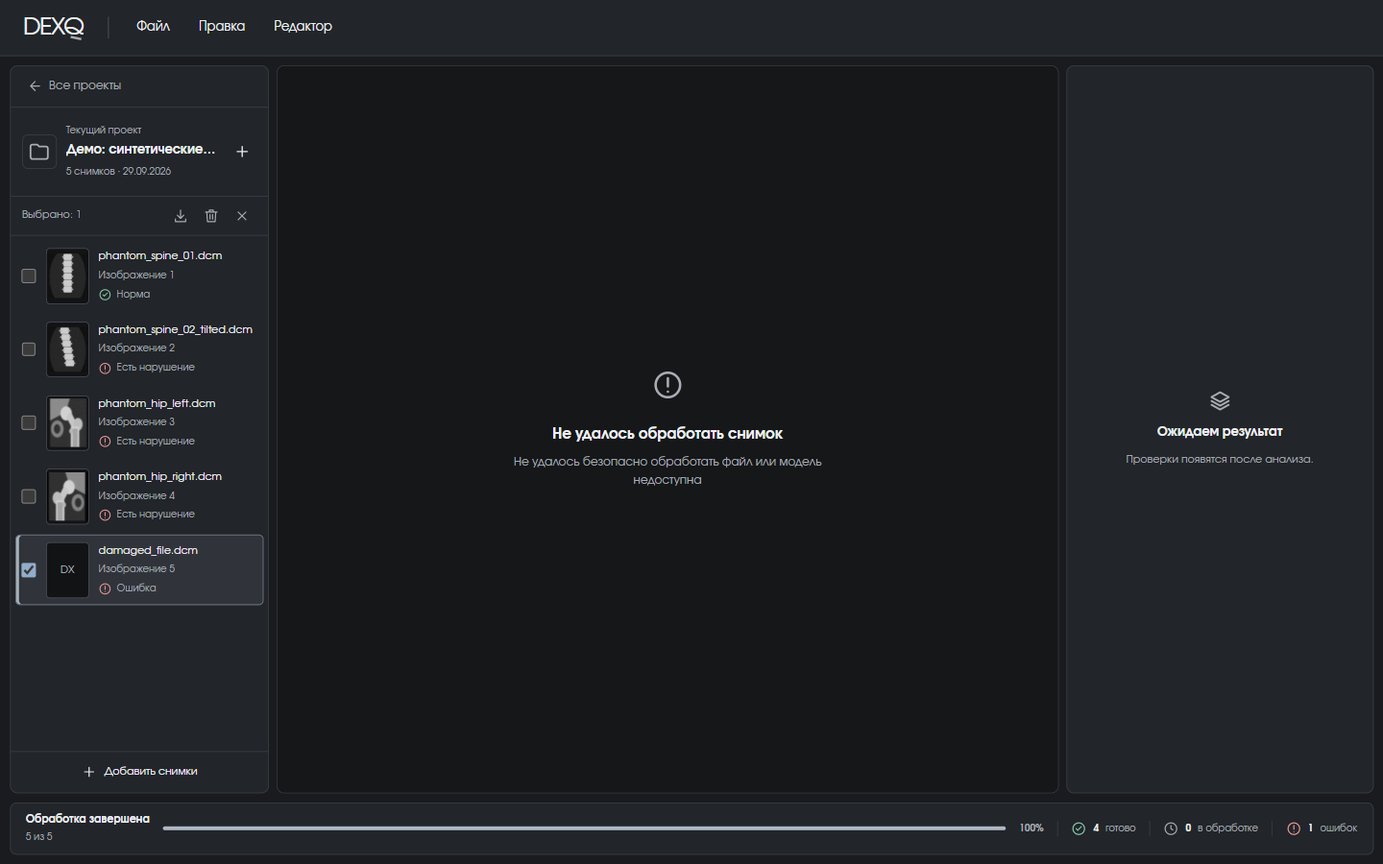
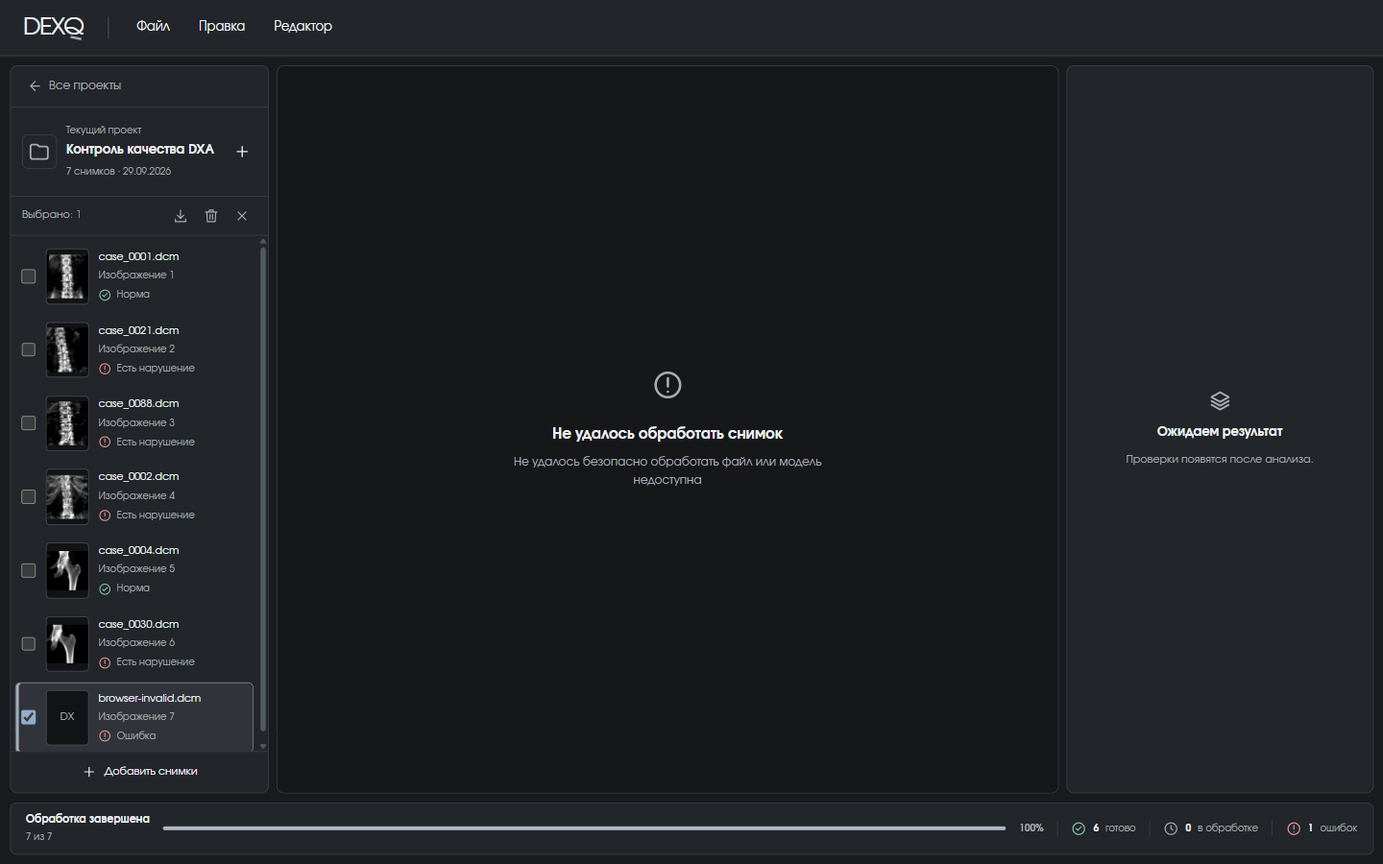
docs: retake screenshots on real studies and add training guide
Screenshots now show anonymized organizer studies instead of phantoms;
captions describe the actual cases. New page documents training,
PyTorch to ONNX conversion, validation and the weight manifest pin.

diff --git a/docs/model/training.md b/docs/model/training.md
@@ -1,0 +1,206 @@
+# Обучение и конвертация весов
+
+<p class="lead">Для запуска DEXQ эта страница не нужна: в архиве лежат готовые веса. Она для тех, кто хочет переобучить классификаторы, заново сконвертировать сети из PyTorch в ONNX или проверить, как получены поставленные файлы.</p>
+
+## Что именно обучается
+
+Нейросети в DEXQ публичные и **заморожены**: ResNet18 (веса ImageNet из `torchvision`) и SpineNet (центры позвонков). Дообучения нейросетей нет. Обучаются только логистические регрессии поверх их признаков (`StandardScaler` + `LogisticRegression`, `class_weight="balanced"`), поэтому всё обучение идёт на CPU за минуты.
+
+```mermaid
+flowchart TB
+    subgraph T ["Обучение и конвертация · PyTorch, scikit-learn"]
+        direction LR
+        PTH["PyTorch .pth<br/>ResNet18, SpineNet"] -->|"torch.onnx.export<br/>opset 17"| ONNX[".onnx<br/>извлечение признаков"]
+        ONNX --> LR["Логистические регрессии<br/>на признаках снимков"]
+        LR --> NPZ[".npz<br/>коэффициенты и пороги"]
+    end
+    T --> RT["Сервис: checkpoints/runtime/<br/>только ONNX Runtime + NumPy"]
+```
+
+| Модель | Что обучается | Данные | Seed |
+| --- | --- | --- | --- |
+| Роутер области | ЛР по 512 признакам ResNet18, `C=0.1` | 255 снимков, позвоночник = 1 | 20260927 |
+| Сторона бедра | ЛР по 2048 признакам ResNet18, `C=0.1` | 155 снимков бедра, правое = 1 | 20260927 |
+| `hip_positioning_rotation` | ЛР по 6400 признакам, `C=0.01`, порог по кросс-фиту | размеченные снимки бедра | 20260928 |
+| `hip_roi` | ЛР по 512 + 7 признакам геометрии, `C=0.01`, порог по кросс-фиту | размеченные снимки бедра | 20260927 |
+| `spine_artifacts` | ЛР по 2680 признакам, `C=0.01`, порог 0,5 | 99 размеченных снимков позвоночника | 20260920 |
+
+`spine_axis` и `spine_positioning` не обучаются: угол считается геометрически по центрам SpineNet, охват — **эвристика** с зафиксированными порогами.
+
+!!! success "Почему ONNX, а не PyTorch"
+    PyTorch нужен только при обучении и конвертации. В работающем сервисе его нет — там только ONNX Runtime и NumPy. Поэтому образ меньше, а те же файлы `.onnx`/`.npz` без изменений запускаются на Linux, Windows и macOS, на x86 и ARM, на CPU или на GPU (через провайдеры ONNX Runtime). Проверено: CPU, Windows 11 и Ubuntu 24.04.
+
+## Перед началом
+
+!!! warning "Два важных ограничения"
+    1. **Обучающих данных в архиве DEXQ нет.** Нужен набор организаторов и несколько служебных файлов разбиения (см. ниже). Без них работают только конвертация и проверка уже обученных моделей.
+    2. **Переобученные веса сервис не примет без правки кода.** Манифест весов привязан к SHA-256 эталонной поставки — подробности в разделе [Как подключить новые веса](#new-weights).
+
+### Окружение
+
+Используйте **отдельное** виртуальное окружение: зависимостей обучения нет в `backend/requirements.lock`, и ставить их в окружение сервиса не нужно.
+
+=== "Linux / macOS"
+
+    ```bash
+    python3.12 -m venv .venv-train
+    .venv-train/bin/python -m pip install -e "backend" torch torchvision onnx scikit-learn threadpoolctl gdown
+    ```
+
+=== "Windows"
+
+    ```powershell
+    py -3.12 -m venv .venv-train
+    .venv-train\Scripts\python -m pip install -e "backend" torch torchvision onnx scikit-learn threadpoolctl gdown
+    ```
+
+| Пакет | Зачем |
+| --- | --- |
+| `torch`, `torchvision` | Исходные графы ResNet18 и SpineNet, экспорт в ONNX |
+| `onnx` | Проверка экспортированного графа (`onnx.checker`) |
+| `scikit-learn`, `threadpoolctl` | Обучение логистических регрессий |
+| `gdown` | Скачивание весов SpineNet |
+
+Точных версий `torch` и `scikit-learn` в репозитории нет. Учтите: версии библиотек входят в «отпечаток рецепта», и после их смены продолжить прерванное обучение нельзя — запускайте с `--no-resume`.
+
+**Сеть** нужна один раз, для исходных весов: ResNet18 скачивается с `download.pytorch.org` (SHA-256 закреплён; если файл уже есть в `~/.cache/torch/hub/checkpoints/`, он берётся оттуда), SpineNet — через `gdown`.
+
+### Откуда запускать
+
+Код лежит пакетом `combined_qc`, поэтому все команды выполняются из папки `backend/reference`:
+
+```bash
+cd backend/reference
+```
+
+По умолчанию модули пишут в `combined_qc/<модуль>/checkpoints/`, а сервис читает `backend/models/reference/<модуль>/checkpoints/`. Чтобы не перезаписать поставленные веса, **всегда указывайте `--checkpoints-dir`** на отдельную папку, например `../../train-out/`.
+
+### Данные
+
+| Путь (от `backend/reference`) | Что это | Для чего |
+| --- | --- | --- |
+| `combined_qc/data/dxa_v1/manifest.jsonl` | 255 строк: `image_id`, `study_id`, `anatomical_region`, пути и SHA-256 пикселей, метки `targets.*` | роутер, бедро |
+| `combined_qc/data/dxa_v1/splits.json` | 5 фолдов по исследованиям, `manifest_sha256` | кросс-фит порогов бедра |
+| `combined_qc/data/dxa_v1/native/*.png` | исходные пиксели; без них берётся DICOM из `source_data/` | все |
+| `combined_qc/router/split.json` | разбиение роутера | роутер |
+| `combined_qc/hip/laterality/split.json` | разбиение модели стороны | бедро |
+| `combined_qc/spine/data/manifest.jsonl`, `labeled_manifest.jsonl` | 100 снимков позвоночника, 99 с меткой артефактов | позвоночник |
+
+`manifest.jsonl` и `splits.json` берутся из обработанного набора организаторов (`data/processed/dxa_v1`). Их SHA-256 совпадают с закреплёнными в поставленных манифестах, поэтому код сам проверит, что набор тот же. Три оставшихся файла разбиения в архив DEXQ не входят — они были в эталонном архиве моделей.
+
+## Команды
+
+У всех команд есть общие флаги:
+
+| Флаг | Значение |
+| --- | --- |
+| `--checkpoints-dir` | Куда писать и откуда читать чекпоинты модуля |
+| `--data` | Папка с данными, если не по умолчанию |
+| `--device` | `auto` или `cpu` (всё обучение идёт на CPU) |
+| `--no-resume` | Начать заново, не продолжая прошлый запуск |
+| `--no-convert` | Только обучить, без конвертации в runtime |
+| `--verify-samples N` | Сколько реальных снимков использовать для сверки PyTorch ↔ ONNX (по умолчанию 2) |
+| `--verbose` / `--ci` | Печатать ход работы в stderr (по умолчанию команды молчат) |
+| `--output FILE` | Сохранить JSON-отчёт |
+
+### Всё сразу
+
+Роутер, затем бедро, затем позвоночник — обучение и конвертация одной командой:
+
+```bash
+python -m combined_qc.router train-all \
+  --checkpoints-dir ../../train-out/router/checkpoints \
+  --hip-checkpoints-dir ../../train-out/hip/checkpoints \
+  --spine-checkpoints-dir ../../train-out/spine/checkpoints \
+  --no-resume --ci --output ../../train-out/train.json
+```
+
+Только конвертация уже обученных моделей — `convert-all` с теми же папками вместо `train-all` (без `--no-resume`). Сводные отчёты `global_training_report.json` и `global_conversion_report.json` появятся в папке роутера.
+
+### По модулям
+
+=== "Роутер"
+
+    ```bash
+    python -m combined_qc.router train   --checkpoints-dir ../../train-out/router/checkpoints --no-resume --ci
+    python -m combined_qc.router convert --checkpoints-dir ../../train-out/router/checkpoints --ci
+    ```
+
+    Одна ЛР на всех 255 снимках. Конвертация заново экспортирует ResNet18 из `.pth` и сверяет признаки (допуск 3·10⁻⁴) и вероятности (3·10⁻⁵); решения на проверочных снимках не должны измениться.
+
+=== "Бедро"
+
+    ```bash
+    python -m combined_qc.hip train   --checkpoints-dir ../../train-out/hip/checkpoints --no-resume --ci
+    python -m combined_qc.hip convert --checkpoints-dir ../../train-out/hip/checkpoints --ci
+    ```
+
+    Сначала обучается модель стороны, затем для каждой задачи — 5-фолдовый кросс-фит по исследованиям для выбора порога (максимум F1 при полноте не ниже 0,70 для укладки и 0,50 для ROI) и финальная ЛР на всех размеченных снимках. Пороги сохраняются внутри NPZ и в `models.json`. Отдельной команды для модели стороны нет — она обучается внутри `hip train`.
+
+=== "Позвоночник"
+
+    ```bash
+    python -m combined_qc.spine train   --checkpoints-dir ../../train-out/spine/checkpoints --no-resume --ci
+    python -m combined_qc.spine convert --checkpoints-dir ../../train-out/spine/checkpoints --ci
+    ```
+
+    Скачивает ResNet18 и SpineNet, экспортирует оба в ONNX и обучает классификатор артефактов. Конвертация сверяет выходы (допуск 10⁻³), центры позвонков (до 0,05 пикселя) и решение по оси.
+
+    Повторно сверить уже экспортированные графы с PyTorch (печатает JSON-отчёт; исходные `.pth` берутся из `combined_qc/spine/checkpoints/source`):
+
+    ```bash
+    python -m combined_qc.spine.onnx_models verify --model-dir <папка runtime/onnx>
+    ```
+
+Конвертация никогда не обучает модели. Новый `runtime/` публикуется атомарно — только после того, как сверка PyTorch ↔ ONNX прошла; при ошибке старая папка остаётся нетронутой.
+
+### Результат
+
+```text
+train-out/
+├── router/checkpoints/
+│   ├── source/        # .pth, признаки, коэффициенты, отчёты обучения
+│   └── runtime/       # resnet18_features.onnx, region_logreg.npz, manifest.json
+├── hip/checkpoints/
+│   ├── source/
+│   └── runtime/       # resnet18_quality_features.onnx, positioning_logreg.npz, roi_logreg.npz,
+│                      # models.json, laterality/…
+└── spine/checkpoints/
+    ├── source/
+    └── runtime/       # onnx/{resnet18_features,spinenet_512}.onnx, classifiers/artifact_logreg.npz
+```
+
+Сервису нужна только папка `runtime/` каждого модуля; `source/` остаётся для воспроизводимости.
+
+## Проверка качества
+
+```bash
+python -m combined_qc.validate --router-checkpoints ../../train-out/router/checkpoints \
+  --hip-checkpoints ../../train-out/hip/checkpoints \
+  --spine-checkpoints ../../train-out/spine/checkpoints --ci
+```
+
+Групповая кросс-валидация: 5 внешних фолдов по исследованиям, пороги бедра подбираются на 4 внутренних. Временные модели обучаются в `combined_qc/outputs/cross_validation/`, итоговые файлы при этом не меняются (команда это проверяет). Результат — `metrics.json`, `predictions.json` и `COMPLETE_TABLES.md`.
+
+| Команда | Что делает |
+| --- | --- |
+| `python -m combined_qc.report_metrics --ci` | Описательные метрики итоговых весов на всём наборе |
+| `python -m combined_qc.router.validate --ci` | Интеграционная проверка роутера на 255 снимках |
+| `python -m combined_qc.validation_tables --refresh-report` | Пересобрать таблицы из сохранённых предсказаний без обучения |
+
+Метрики на тех же данных, на которых шло обучение, остаются **внутренней** оценкой, а не клинической валидацией — см. [Метрики](metrics.md).
+
+## Как подключить новые веса { #new-weights }
+
+Скопируйте `runtime/` каждого модуля в `backend/models/reference/<модуль>/checkpoints/runtime/`. После этого сервис **не запустится**, и это ожидаемо:
+
+- `scripts/run.sh` остановится с «Проверка моделей не пройдена»;
+- сервер ответит на `/api/v1/health` кодом 503.
+
+Причина — защита от подмены: `installed-manifest.json` хранит SHA-256 каждого файла, а сам манифест привязан к константам `REFERENCE_SHA` и `REFERENCE_MANIFEST_SHA` в `backend/app/reference_assets.py`. Команды, которая пересобрала бы манифест для своих весов, нет. Чтобы подключить новые веса, нужно:
+
+1. Записать новый `installed-manifest.json` с SHA-256 новых файлов.
+2. Обновить обе константы в `backend/app/reference_assets.py`.
+3. Обновить тесты, которые закрепляют те же значения (`test_deployment.py`, `test_reference_setup.py`), и `scripts/package_submission.py`. `test_reference_parity.py` сравнивает ответы с эталонными и после переобучения ожидаемо разойдётся.
+
+Даже повторная конвертация без переобучения на другой версии `torch` может дать другие байты `.onnx` — и, значит, другие SHA-256.

diff --git a/docs/model/index.md b/docs/model/index.md
@@ -44,4 +44,4 @@ flowchart TB
 
 ### Обучение, данные и ограничения
 
-Архив включает код обучения, однако приложение его не запускает и веса при обслуживании не дообучаются. Итоговые классификаторы hip обучены на всех доступных размеченных для своих задач снимках; классификатор артефактов spine — на 99 размеченных spine-изображениях. Архивный набор из 255 снимков содержит 102 исследования; экспертный QC-итог есть для 249 изображений. В архиве есть и описательный прогон итоговых весов по этому набору, и внутренняя grouped cross-fit оценка части рецепта; даже последняя **не** является независимой клинической валидацией полной системы: эвристика покрытия позвоночника и правило его угла разрабатывались на этих же данных. Числа и источники оценок см. в [метриках](metrics.md); не переносите показатели предыдущего архива на текущие веса. Проекция, анатомическая ROI-сегментация, отдельная классификация ротации и клинически значимая калибровка остаются вне фактически поставленного решения. Для пилотирования нужны новые обезличенные исследования, независимая экспертная оценка и заранее зафиксированные пороги.
+Архив включает код обучения, однако приложение его не запускает и веса при обслуживании не дообучаются. Как запустить обучение и конвертацию вручную — см. [Обучение и конвертация](training.md). Итоговые классификаторы hip обучены на всех доступных размеченных для своих задач снимках; классификатор артефактов spine — на 99 размеченных spine-изображениях. Архивный набор из 255 снимков содержит 102 исследования; экспертный QC-итог есть для 249 изображений. В архиве есть и описательный прогон итоговых весов по этому набору, и внутренняя grouped cross-fit оценка части рецепта; даже последняя **не** является независимой клинической валидацией полной системы: эвристика покрытия позвоночника и правило его угла разрабатывались на этих же данных. Числа и источники оценок см. в [метриках](metrics.md); не переносите показатели предыдущего архива на текущие веса. Проекция, анатомическая ROI-сегментация, отдельная классификация ротации и клинически значимая калибровка остаются вне фактически поставленного решения. Для пилотирования нужны новые обезличенные исследования, независимая экспертная оценка и заранее зафиксированные пороги.

diff --git a/docs/ui/workspace.md b/docs/ui/workspace.md
@@ -4,7 +4,7 @@
 
 <figure markdown>
 ![Рабочее пространство со снимком позвоночника без нарушений](../images/04-workspace-normal.png)
-<figcaption>Снимок без нарушений: зелёная плашка «Нарушений не выявлено», все три проверки позвоночника — «Норма».</figcaption>
+<figcaption>Снимок поясничного отдела без нарушений (ось отклонена на 3,7°): зелёная плашка «Нарушений не выявлено», все три проверки позвоночника — «Норма».</figcaption>
 </figure>
 
 | Зона | Что в ней |
@@ -28,7 +28,7 @@
 
 <figure markdown>
 ![Снимок позвоночника с наклонённой осью и красной плашкой «Есть нарушение качества»](../images/05-workspace-tilted.png)
-<figcaption>Ось позвоночника отклонена на 8,6° — больше порога 5°. Итог «Есть нарушение качества», проверка «Наклон оси позвоночника» — «Нарушение».</figcaption>
+<figcaption>Ось позвоночника отклонена на 8,3° — больше порога 5°. Итог «Есть нарушение качества», проверка «Наклон оси позвоночника» — «Нарушение».</figcaption>
 </figure>
 
 Жёлтая линия с двумя точками — ось, которую нашла модель по центрам верхнего и нижнего позвонков. Щёлкните по проверке в правой панели, чтобы раскрыть её пояснение:
@@ -42,7 +42,7 @@
 
 <figure markdown>
 ![Снимок бедра с бирюзовой рамкой и нарушением охвата ROI](../images/07-workspace-hip.png)
-<figcaption>Для бедра выполняются две проверки. Бирюзовая рамка — граница светлой области снимка, а не анатомическая маска.</figcaption>
+<figcaption>Для бедра выполняются две проверки. Здесь ротация в норме, но охват ROI нарушен. Бирюзовая рамка — граница светлой области снимка, а не анатомическая маска.</figcaption>
 </figure>
 
 !!! note "Ограничения проверок бедра"
@@ -53,7 +53,7 @@
 
 <figure markdown>
 ![Экран «Не удалось обработать снимок» для повреждённого файла](../images/08-workspace-error.png)
-<figcaption>Повреждённый файл получил статус «Ошибка». Остальные снимки проекта обработаны как обычно.</figcaption>
+<figcaption>Файл с расширением <code>.dcm</code>, который на самом деле не является DICOM, получил статус «Ошибка». Остальные снимки проекта обработаны как обычно.</figcaption>
 </figure>
 
 Ошибка одного файла не останавливает очередь и не влияет на соседние снимки. В отчёт такой файл тоже попадёт — со статусом `Failure` и пустым классом.

diff --git a/docs/ui/manual-axis.md b/docs/ui/manual-axis.md
@@ -3,8 +3,8 @@
 <p class="lead">Модель находит центры позвонков и строит ось через верхний и нижний. Если специалист видит, что точки стоят неточно, их можно передвинуть — DEXQ пересчитает угол и покажет, как меняется вердикт.</p>
 
 <figure markdown>
-![Ручная правка оси: нижняя точка сдвинута, угол 0,49°, итог «Нарушений не выявлено»](../images/10-manual-axis.png)
-<figcaption>Нижняя точка перенесена на центр нижнего позвонка. Ручной угол — 0,49°, предварительный итог — «Нарушений не выявлено». Автоматический результат («есть нарушение») показан строкой ниже для сравнения.</figcaption>
+![Ручная правка оси: нижняя точка сдвинута, угол 2,11°, итог «Нарушений не выявлено»](../images/10-manual-axis.png)
+<figcaption>Модель поставила ось с наклоном 5,3° — чуть выше порога 5°. Нижняя точка перенесена на центр нижнего позвонка: ручной угол — 2,11°, предварительный итог — «Нарушений не выявлено». Автоматический результат («есть нарушение») показан строкой ниже для сравнения.</figcaption>
 </figure>
 
 ## Как поправить ось

diff --git a/docs/index.md b/docs/index.md
@@ -56,7 +56,7 @@ hide:
 
 <figure markdown>
 ![Рабочее пространство DEXQ: список снимков, снимок позвоночника с найденной осью и панель результатов](images/05-workspace-tilted.png)
-<figcaption>Рабочее пространство. Слева — снимки проекта, в центре — изображение с найденной осью позвоночника, справа — итог и отдельные проверки. На скриншотах документации только синтетические фантомы, а не снимки пациентов.</figcaption>
+<figcaption>Рабочее пространство. Слева — снимки проекта, в центре — изображение с найденной осью позвоночника, справа — итог и отдельные проверки. На скриншотах — обезличенные снимки из набора организаторов.</figcaption>
 </figure>
 
 Вы загружаете DICOM-файлы исследований. DEXQ сам определяет, что на снимке — поясничный отдел позвоночника или проксимальный отдел бедра, — и запускает проверки для этой области:

diff --git a/docs/ui/index.md b/docs/ui/index.md
@@ -3,7 +3,7 @@
 <p class="lead">Сайт — рабочее место для проверки снимков: вы создаёте проект, добавляете файлы, смотрите результат по каждому снимку и выгружаете отчёт. Эта глава показывает все экраны по порядку.</p>
 
 !!! info "Про скриншоты"
-    На всех скриншотах — **синтетические фантомы**: картинки, нарисованные программой по форме похожими на позвоночник и бедро. Настоящие снимки пациентов в документацию не попадают. Поэтому изображения выглядят схематично, а вердикты на них нужны только для иллюстрации интерфейса.
+    Скриншоты сделаны на **обезличенных снимках из набора организаторов** (`case_0001`, `case_0021`, `case_0088` и др.), обработанных локальным сервером DEXQ. Вердикты на них — реальный вывод моделей, но это исследовательский контроль качества, а не диагностика.
 
 ## Путь пользователя
 

diff --git a/docs/code/backend.md b/docs/code/backend.md
@@ -29,7 +29,7 @@
 2. **Позвоночник:** эвристика охвата, SpineNet для центров позвонков и угла оси, классификатор артефактов.
 3. **Бедро:** модель стороны, затем два классификатора поверх признаков ResNet18 — позиционирование/ротация и охват ROI.
 
-Все нейросети — ONNX, запускаются на `CPUExecutionProvider`. Подробно о предобработке и порогах — в разделе [Модель](../model/index.md).
+Все нейросети — ONNX, запускаются на `CPUExecutionProvider`. Подробно о предобработке и порогах — в разделе [Модель](../model/index.md); команды обучения и конвертации PyTorch → ONNX — в разделе [Обучение и конвертация](../model/training.md).
 
 ## Как устроен `ReferenceRuntime`
 

diff --git a/docs/ui/projects.md b/docs/ui/projects.md
@@ -5,7 +5,7 @@
 ## Список проектов
 
 <figure markdown>
-![Список проектов с карточкой нового проекта и проектом из пяти снимков](../images/02-projects.png)
+![Список проектов с карточкой нового проекта и проектом из семи снимков](../images/02-projects.png)
 <figcaption>Список проектов. На карточке — миниатюры снимков, их количество и время создания.</figcaption>
 </figure>
 
